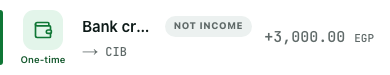
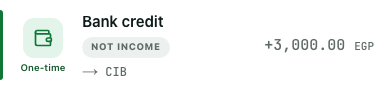
test(qa-r3): verify L1 fixes A-D on one bundle; EN/AR owner evidence spec and screenshots; coverage results

diff --git a/e2e/journeys/specs/round3/z-evidence.spec.ts b/e2e/journeys/specs/round3/z-evidence.spec.ts
@@ -1,0 +1,124 @@
+/* eslint-disable @typescript-eslint/no-explicit-any -- test code reads untyped store and PostgREST JSON */
+// Owner evidence for the L1 fixes A, C and D at 390 px, in English and Arabic: Wealth > Add money on a held pocket
+// (the holder is the default source), another source shown as a transfer and refused past its free money, both pocket
+// delete warnings (money stays in the account / leaves net worth), and a borrowed Flow row whose "Not income" badge
+// wraps under the title. Screenshots go to docs/qa/round3/evidence/; the checks only make sure each shot shows its point.
+import { mkdirSync } from 'node:fs'
+import { resolve } from 'node:path'
+import type { Locator, Page } from '@playwright/test'
+import { env } from '../../lib/env'
+import { expect, localWait, test } from '../../lib/fixtures'
+import { blur, dialog } from '../../lib/ui'
+import { bank, localMethod, seed } from './seed'
+
+const EVIDENCE = resolve(__dirname, '../../../../docs/qa/round3/evidence')
+const HELD = 'QA Ev Rainy'
+const LOOSE = 'QA Ev Jar'
+/** Long enough that the title and the badge do not fit on one line at 390 px. */
+const TITLE = 'Instapay credit from Ahmed Mostafa'
+const hourAgo = () => new Date(Date.now() - 3_600_000).toISOString()
+const today = () => new Date().toLocaleDateString('en-CA', { timeZone: 'Africa/Cairo' })
+
+const COPY = {
+  en: { addMoney: 'Add money', del: 'Delete', fromAccount: 'From account', transfer: 'Transfer from QNB Alahli to CIB', over: /Only 1,000(\.00)? EGP is available in QNB Alahli/, stays: 'stays in CIB', leaves: 'will leave your net worth', notIncome: 'Not income' },
+  ar: { addMoney: 'إضافة مال', del: 'حذف', fromAccount: 'من حساب', transfer: 'تحويل من QNB Alahli إلى CIB', over: /المتاح في QNB Alahli هو/, stays: 'في CIB ويعود متاحًا', leaves: 'من صافي ثروتك', notIncome: 'ليس دخلًا' },
+}
+type Lang = keyof typeof COPY
+
+const shot = async (target: Page | Locator, name: string) => {
+  mkdirSync(EVIDENCE, { recursive: true })
+  // Sheets and dialogs animate in; let them settle so the shot is not half-faded.
+  await new Promise((r) => setTimeout(r, 800))
+  await target.screenshot({ path: `${EVIDENCE}/${name}.png` })
+}
+
+async function open(page: Page, path: string) {
+  await page.goto(path, { waitUntil: 'domcontentloaded' })
+  await expect(page.locator('main')).toBeVisible({ timeout: 60_000 })
+  await page.waitForTimeout(1500)
+}
+
+/** The language lives in user_settings (a pull overwrites the local copy) and in the persisted store. */
+async function useLanguage(page: Page, userId: string, lang: Lang) {
+  if (lang === 'en') return
+  const key = env('SUPABASE_SECRET_KEY')
+  const r = await fetch(`${env('NEXT_PUBLIC_SUPABASE_URL')}/rest/v1/user_settings?user_id=eq.${userId}`, {
+    method: 'PATCH', headers: { apikey: key, Authorization: `Bearer ${key}`, 'Content-Type': 'application/json', Prefer: 'return=minimal' }, body: JSON.stringify({ language: 'ar' }),
+  })
+  expect(r.status).toBeLessThan(300)
+  await page.evaluate(() => {
+    const k = 'buddget-storage'
+    const j = JSON.parse(localStorage.getItem(k) ?? '{"state":{},"version":0}')
+    j.state.settings = { ...(j.state.settings ?? {}), language: 'ar' }
+    localStorage.setItem(k, JSON.stringify(j))
+    document.cookie = 'bdg-lang=ar; path=/'
+  })
+  await open(page, '/wealth')
+  await expect(page.locator('html')).toHaveAttribute('lang', 'ar')
+}
+
+async function pocketMenu(page: Page, pocket: string, item: string) {
+  await open(page, '/wealth')
+  await page.getByRole('button', { name: new RegExp(pocket) }).first().click()
+  await page.getByRole('menuitem', { name: item, exact: true }).click()
+}
+
+/** Two accounts (CIB 5,000, QNB 1,000), a pocket held in CIB (500) and one outside every account (300). */
+async function setup(page: Page, userId: string) {
+  const [cib] = await seed(page, userId, 'payment_methods', [bank('CIB', 5000, { opening_at: hourAgo() })])
+  const [qnb] = await seed(page, userId, 'payment_methods', [bank('QNB Alahli', 1000, { opening_at: hourAgo() })])
+  await seed(page, userId, 'savings_accounts', [
+    { name: HELD, type: 'bank', category: 'savings', currency: 'EGP', current_balance: 500, opening_balance: 500, held_in_payment_method_id: cib.id },
+    { name: LOOSE, type: 'cash', category: 'savings', currency: 'EGP', current_balance: 300, opening_balance: 300, held_in_payment_method_id: null },
+  ])
+  await localMethod(page, cib.id)
+  await localMethod(page, qnb.id)
+  await localWait(page, (s) => s.savingsAccounts.filter((a: any) => a.name === HELD || a.name === LOOSE).length === 2)
+  await seed(page, userId, 'debts', [{ name: 'QA Ev borrow', person: 'Ahmed', amount: 3000, remaining_amount: 3000, currency: 'EGP', debt_type: 'personal', direction: 'i_owe', status: 'active' }])
+  const debt = await localWait(page, (s) => s.debts.find((d: any) => d.name === 'QA Ev borrow'))
+  await seed(page, userId, 'income_events', [{ name: TITLE, amount: 3000, currency: 'EGP', source_type: 'other', status: 'confirmed', received_date: today(), payment_method_id: cib.id, occurred_at: new Date().toISOString(), linked_debt_id: debt.id }])
+}
+
+for (const lang of ['en', 'ar'] as const) {
+  test(`E1 ${lang} evidence for L1-A, L1-C and L1-D at 390 px`, async ({ page, user }) => {
+    const c = COPY[lang]
+    await setup(page, user.id)
+    await useLanguage(page, user.id, lang)
+
+    // A: the holder is the default source; nothing moves between accounts.
+    await pocketMenu(page, HELD, c.addMoney)
+    const d = dialog(page, c.addMoney)
+    await d.getByRole('textbox').first().fill('2000')
+    await blur(page)
+    const from = d.getByRole('button', { name: new RegExp(`^${c.fromAccount}`) })
+    await expect(from).toContainText('CIB')
+    await expect(d.getByRole('alert')).toHaveCount(0)
+    await shot(page, `l1a-add-money-held-default-cib-${lang}`)
+
+    // A: another source is a transfer, refused past its own free money.
+    await from.click()
+    await d.getByRole('option', { name: /^QNB Alahli/ }).click()
+    await expect(d).toContainText(c.transfer)
+    await expect(d.getByRole('alert')).toContainText(c.over)
+    await shot(page, `l1a-add-money-transfer-refused-${lang}`)
+    await page.keyboard.press('Escape')
+
+    // C: the warning follows the net worth change.
+    await pocketMenu(page, HELD, c.del)
+    const stays = page.getByRole('alertdialog')
+    await expect(stays).toContainText(c.stays)
+    await shot(page, `l1c-delete-held-stays-${lang}`)
+    await page.keyboard.press('Escape')
+    await pocketMenu(page, LOOSE, c.del)
+    const leaves = page.getByRole('alertdialog')
+    await expect(leaves).toContainText(c.leaves)
+    await shot(page, `l1c-delete-outside-leaves-${lang}`)
+    await page.keyboard.press('Escape')
+
+    // D: the borrowed row keeps its whole title and wraps the badge under it.
+    await open(page, '/flow')
+    const row = page.locator('main').getByRole('button').filter({ hasText: TITLE }).first()
+    await expect(row).toContainText(c.notIncome)
+    await shot(row, `l1d-flow-borrowed-not-income-${lang}`)
+  })
+}

diff --git a/docs/qa/round3/R3-coverage.md b/docs/qa/round3/R3-coverage.md
@@ -39,14 +39,14 @@ Screenshots for the owner, in `evidence/`: `w8-add-debt-left-cib-question.png`, 
 - This contradicts `depositLegId`'s own comment ("defaulting to the primary would book a transfer between two accounts that never happened").
 - Fix options: (a) default a held pocket's source to its holder (no leg, a plain set-aside capped at free), or (b) keep the cross-account transfer but refuse more than the source has free. Both are money-semantics choices. L1 sets money aside through Accounts > account > Set aside, which is correct and capped.
 
-**L1-B. A pocket deleted from Wealth can come back moments later and is never deleted on the server.** Pinned by L3.
+**L1-B. A pocket deleted from Wealth can come back moments later and is never deleted on the server.** Pinned by L3. Fixed 2026-11-25 (persisted pending-delete set); L3 passed 5 of 5 in the fix-verification run below.
 - Seen in about 5 of 8 attempts: the confirm resolves and the row leaves the store, then comes back within about 200 ms. The server row keeps `deleted_at` null. It happens with both held and standalone pockets. It is more likely right after a page load, while the first pull is running.
 - Likely cause (not proven): `applyListWith` / `mergeList` (`src/lib/supabase/remote/delta.ts`, `merge.ts`) union a pull's upserts with the local list. A row deleted locally but not yet delivered is re-added from a delta fetched before the delete. After that it equals the delivered copy, so it is never sent as a delete.
 - This is sync conflict policy (local delete against a server copy), a deep-technical change that needs tests first. Not changed here. L1 step 10 deletes again until the pocket stays gone (0 retries on the final run) and records the count.
 
-**L1-C. Delete copy for a pocket held in an account is wrong.** It says "11,000 EGP will leave your net worth". Net worth stayed 30,000, which is correct, because the money stays in CIB. This is a copy change, so it needs a mockup.
+**L1-C. Delete copy for a pocket held in an account is wrong.** It says "11,000 EGP will leave your net worth". Net worth stayed 30,000, which is correct, because the money stays in CIB. This is a copy change, so it needs a mockup. Fixed 2026-11-25 (copy follows the net worth change); screenshots in the fix-verification run below.
 
-**L1-D (cosmetic).** The Flow row title for an SMS credit truncates to "Bank cr…" next to the "Not income" badge at 390 px (`w9-borrowed-not-income-row.png`).
+**L1-D (cosmetic).** The Flow row title for an SMS credit truncates to "Bank cr…" next to the "Not income" badge at 390 px (`w9-borrowed-not-income-row.png`). Fixed 2026-11-25 (badge wraps under the title on Flow); screenshots in the fix-verification run below.
 
 ### Cleanup
 - 0 `qa-e2e-*` users left. `sms_tracking_templates_ai`: 70 before and 70 after, 0 rows created during the run (only curated and multi-split texts were posted).
@@ -54,6 +54,40 @@ Screenshots for the owner, in `evidence/`: `w8-add-debt-left-cib-question.png`, 
 ### Test-only corrections
 - W8 (and L1): the debt sheet shows a method field that opens the carousel, not account chips, once there is more than Cash. The shared helper `chooseMethod` (`e2e/journeys/lib/ui.ts`) uses the chip when there is one, else the carousel.
 - The service-role seed for a late Instapay row omits `category_source`. The SMS route writes only `ai_suggested` or null there, and the check constraint refuses `sms`.
+
+## Fix-verification run on `claude/qa-r3-findings` (2026-11-25)
+
+Same local setup, on one bundle built at 4223e088 (`next build --webpack`, `NEXT_PUBLIC_DEV_AUTH_BYPASS=0`, empty `NEXT_PUBLIC_API_BASE_URL`, `TZ=Africa/Cairo`; `next start -p 3101`; one worker, no retries, phone project). No `src/` change and no test change was needed: the new deposit caps refused no step in an older journey.
+
+| Group | Specs | Result |
+|---|---|---|
+| L lifecycle | `round3/l-lifecycle` L1, L2, L3 | 3 of 3 passed (L2 and L3 as normal tests) |
+| L3 repeat (L1-B was intermittent) | L3 × 5 in all (1 + 4 repeats), 4 deletes each | 5 of 5 passed, 20 of 20 deletes stayed gone in the store and have `deleted_at` on the server |
+| Round 3 journeys | `round3/{w-money, p-planner-conflicts, j-accounts-flow}`, `k-accounts-flow` | 20 of 20 passed |
+| J9 Buddgy (real model) | `round3/y-buddgy-rules` × 3 | 3 of 3 passed |
+| Regression | `b-bank-expense`, `c-debt`, `d-pockets`, `e-subscription`, `f-goal` | 13 of 13 passed |
+| Regression | `g-buddgy`, `h-cards-link`, `n-navigation` (phone and desktop), `q-quick-add`, `s-system-cash` | 17 of 17 passed |
+| Round 2 core | `round2/r1-core` | 19 of 19 passed |
+| Round 2 API | `api/round2/{adversarial, qa-regressions}` (setup and teardown of `qa-api-*`) | 40 of 40 passed |
+| API | `api/round3/admin-devices.spec.ts` | 4 of 4 passed |
+| SMS | `sms/multi-split.mjs` | 13 of 13 checks passed, 0 synthetic rows left |
+| Billing | `api/buddgy-turns.mjs` | 9 of 9 passed |
+| Evidence (new) | `round3/z-evidence` EN and AR | 2 of 2 passed, screenshots below |
+
+### L1 findings A–D: results
+
+| Finding | Fix | Test(s) | Result | Label |
+|---|---|---|---|---|
+| L1-A held-pocket Add money | Holder is the default source (no leg, capped at its free); another source is a transfer capped at its own free money | L2 (default CIB: CIB 5,000 with 2,500 set aside, QNB 1,000, net worth 6,000, deposit has no leg; QNB 2,000 refused "Only 1,000 EGP is available in QNB Alahli", button disabled); L1 whole lifecycle; older journeys b–s and W1–W11 unchanged | pass | AV; owner to look at `l1a-*` |
+| L1-B deleted pocket resurrected | Persisted pending-delete set; no pull re-adds an id in it | L3 × 5 (20 deletes), L1 step 10 | pass, 0 resurrections | AV |
+| L1-C delete warning copy | Copy follows the net worth change | Shots: held pocket "The 500 EGP stays in CIB and becomes available again"; outside pocket "300 EGP will leave your net worth"; both in Arabic | taken | MV (copy, owner approves) |
+| L1-D Flow badge wrap | Additive `TransactionRow` variant on Flow | Shot: a long borrowed-credit title with "Not income" on its own line under it, EN and AR. A title longer than the row still ends in "…" on its own line; the badge no longer takes its space | taken | MV |
+
+Screenshots in `evidence/`: `l1a-add-money-held-default-cib-{en,ar}.png`, `l1a-add-money-transfer-refused-{en,ar}.png` (shows the "Transfer from QNB Alahli to CIB" line and the refusal), `l1c-delete-held-stays-{en,ar}.png`, `l1c-delete-outside-leaves-{en,ar}.png`, `l1d-flow-borrowed-not-income-{en,ar}.png`. W9 also refreshed `w9-borrowed-not-income-row.png`.
+
+### Cleanup
+- 0 `qa-e2e-*` and 0 `qa-api-*`/`qa-sec-*` users left (0 before the run).
+- `sms_tracking_templates_ai`: 70 before and 70 after, 0 rows created. One existing active template (id 6886dd33…, created 2026-10-21) had its match count bumped once, during the `j-accounts-flow` SMS steps; nothing was learned.
 
 ## Final run (after the one product fix, on a rebuilt bundle)
 

diff --git a/e2e/README.md b/e2e/README.md
@@ -18,6 +18,7 @@ Needs `.env.local` in the repo root with `NEXT_PUBLIC_SUPABASE_URL`, `NEXT_PUBLI
 | `journeys/specs/k-accounts-flow.spec.ts` | QA bugs 14, 15 (D13, D16): Flow lists no own-account move and has no "Not counted" chip; the account sheet's Recent row opens the expense editor; Cash changes currency and is asked its amount in the new one; K3 (J8) an empty Cash follows a main-currency switch and Undo puts both back | as `journeys/` |
 | `journeys/specs/round3/w-money.spec.ts` | PR #38 money: W1 net worth = tracked accounts - debts, a closed account leaves it (BUD-100); W2 the daily snapshot is stamped `assets` with no tracked account (BUD-90); W3 a repayment from someone who owes you credits the account, Flow marks it "Not income", Money in unchanged, only a `debt_payments` row (BUD-39/99); W4 a cleared non-card debt owes 0 (BUD-103); W5 goal add-money "left / over target" hint, never capped (BUD-87); W6 card carousel details follow the selected card; W7 default method: Cash, then the account set as default, then the Cash row's "Set as default"; W8 lending from a tracked account books the principal leg on the debt row (account and net worth down, no expense or income row), the repayment restores both (DR-6); W9 borrowed money linked to the bank deposit that already brought it: CIB holds it once, Money in leaves it out, Flow marks the row "Not income" (council Q3); W10/W11 a bank transfer arriving after a lend with a leg: Flow asks "Is this the … you lent …?", Yes leaves one debit, No keeps both and is not asked again (council Q4). W1, W8, W9, W10 save screenshots to `docs/qa/round3/evidence/`. Seeds rows with the service role (`round3/seed.ts`) | `QA_BASE=<server> npx playwright test -c e2e/journeys/playwright.config.ts round3/w-money` |
 | `journeys/specs/round3/l-lifecycle.spec.ts` | L1 one user, the whole money lifecycle in one serial test: two seeded accounts (CIB 20,000, QNB 10,000), a pocket held in CIB, then goal with "Already saved" in QNB, a new pocket, add and withdraw, fund the goal from a pocket and from its account, set aside all of CIB and release at 0 free (R8), over-free refused with the amount, lend 5,000 and get it back, achieve the goal, delete a pocket. After every step: account rows, Available now, In accounts, Set aside and net worth on Accounts, the store (balance engine over the persisted ledger, pocket balances) and the server (pocket rows; a fresh sign-in rebuilds the numbers from server rows), against hand-computed literals. L2 (finding L1-A, fixed): Wealth > Add money into a pocket held in CIB sets aside CIB's own money by default (nothing moves, net worth unchanged), and a source that is another account is shown as a transfer and refused above that account's free money. L3 (finding L1-B, fixed): a pocket deleted from Wealth no longer comes back | as `round3/w-money` |
+| `journeys/specs/round3/z-evidence.spec.ts` | Owner screenshots for the L1 fixes, EN and AR at 390 px (the AR run sets `user_settings.language`, since a pull overwrites the local setting): Add money on a pocket held in CIB defaults to CIB; QNB as the source shows "Transfer from QNB Alahli to CIB" and the refusal; both pocket delete warnings (stays in CIB / leaves net worth); a borrowed Flow row with the "Not income" badge wrapped under the title. Writes `docs/qa/round3/evidence/l1{a,c,d}-*-{en,ar}.png`; the asserts only check each shot shows its point | as `round3/w-money` |
 | `journeys/specs/round3/j-accounts-flow.spec.ts` | J7 (QA bug 9, D15) unknown account from a real SMS: Not mine closes it, Undo reopens, its next SMS lands on the closed row; J12 (QA bug 12) income prompts on All and In not Out, pager dots reach card 2, sideways drag does not page, swipe up snoozes; J13 (QA bug 13) editor time only for a real same-day timestamp; J14 (BUD-104) one message caught twice by one phone: both booked, "caught twice" wording, Keep both; J10 (QA bug 10) 44 px tap areas and screenshots to `docs/qa/round3/evidence/` | as `round3/w-money` |
 | `journeys/specs/round3/p-planner-conflicts.spec.ts` | BUD-105/106 planner: typed text that disagrees with tracked income and debts asks one question at a time, resumes at the same question after a reload, review rows open the cost, utilities and holdings editors. The AI reading (`/api/budget/ai` op `situation`) is stubbed | as `round3/w-money` |
 | `journeys/specs/round3/y-buddgy-rules.spec.ts` | J9 Buddgy through the real model route: no proposal sets aside more than an account has free; a smaller already-saved amount is set aside in that account (pocket held there, balance unchanged), never "Somewhere else" when the user named the account. Needs `GEMINI_API_KEY` on the server | as `round3/w-money` |
